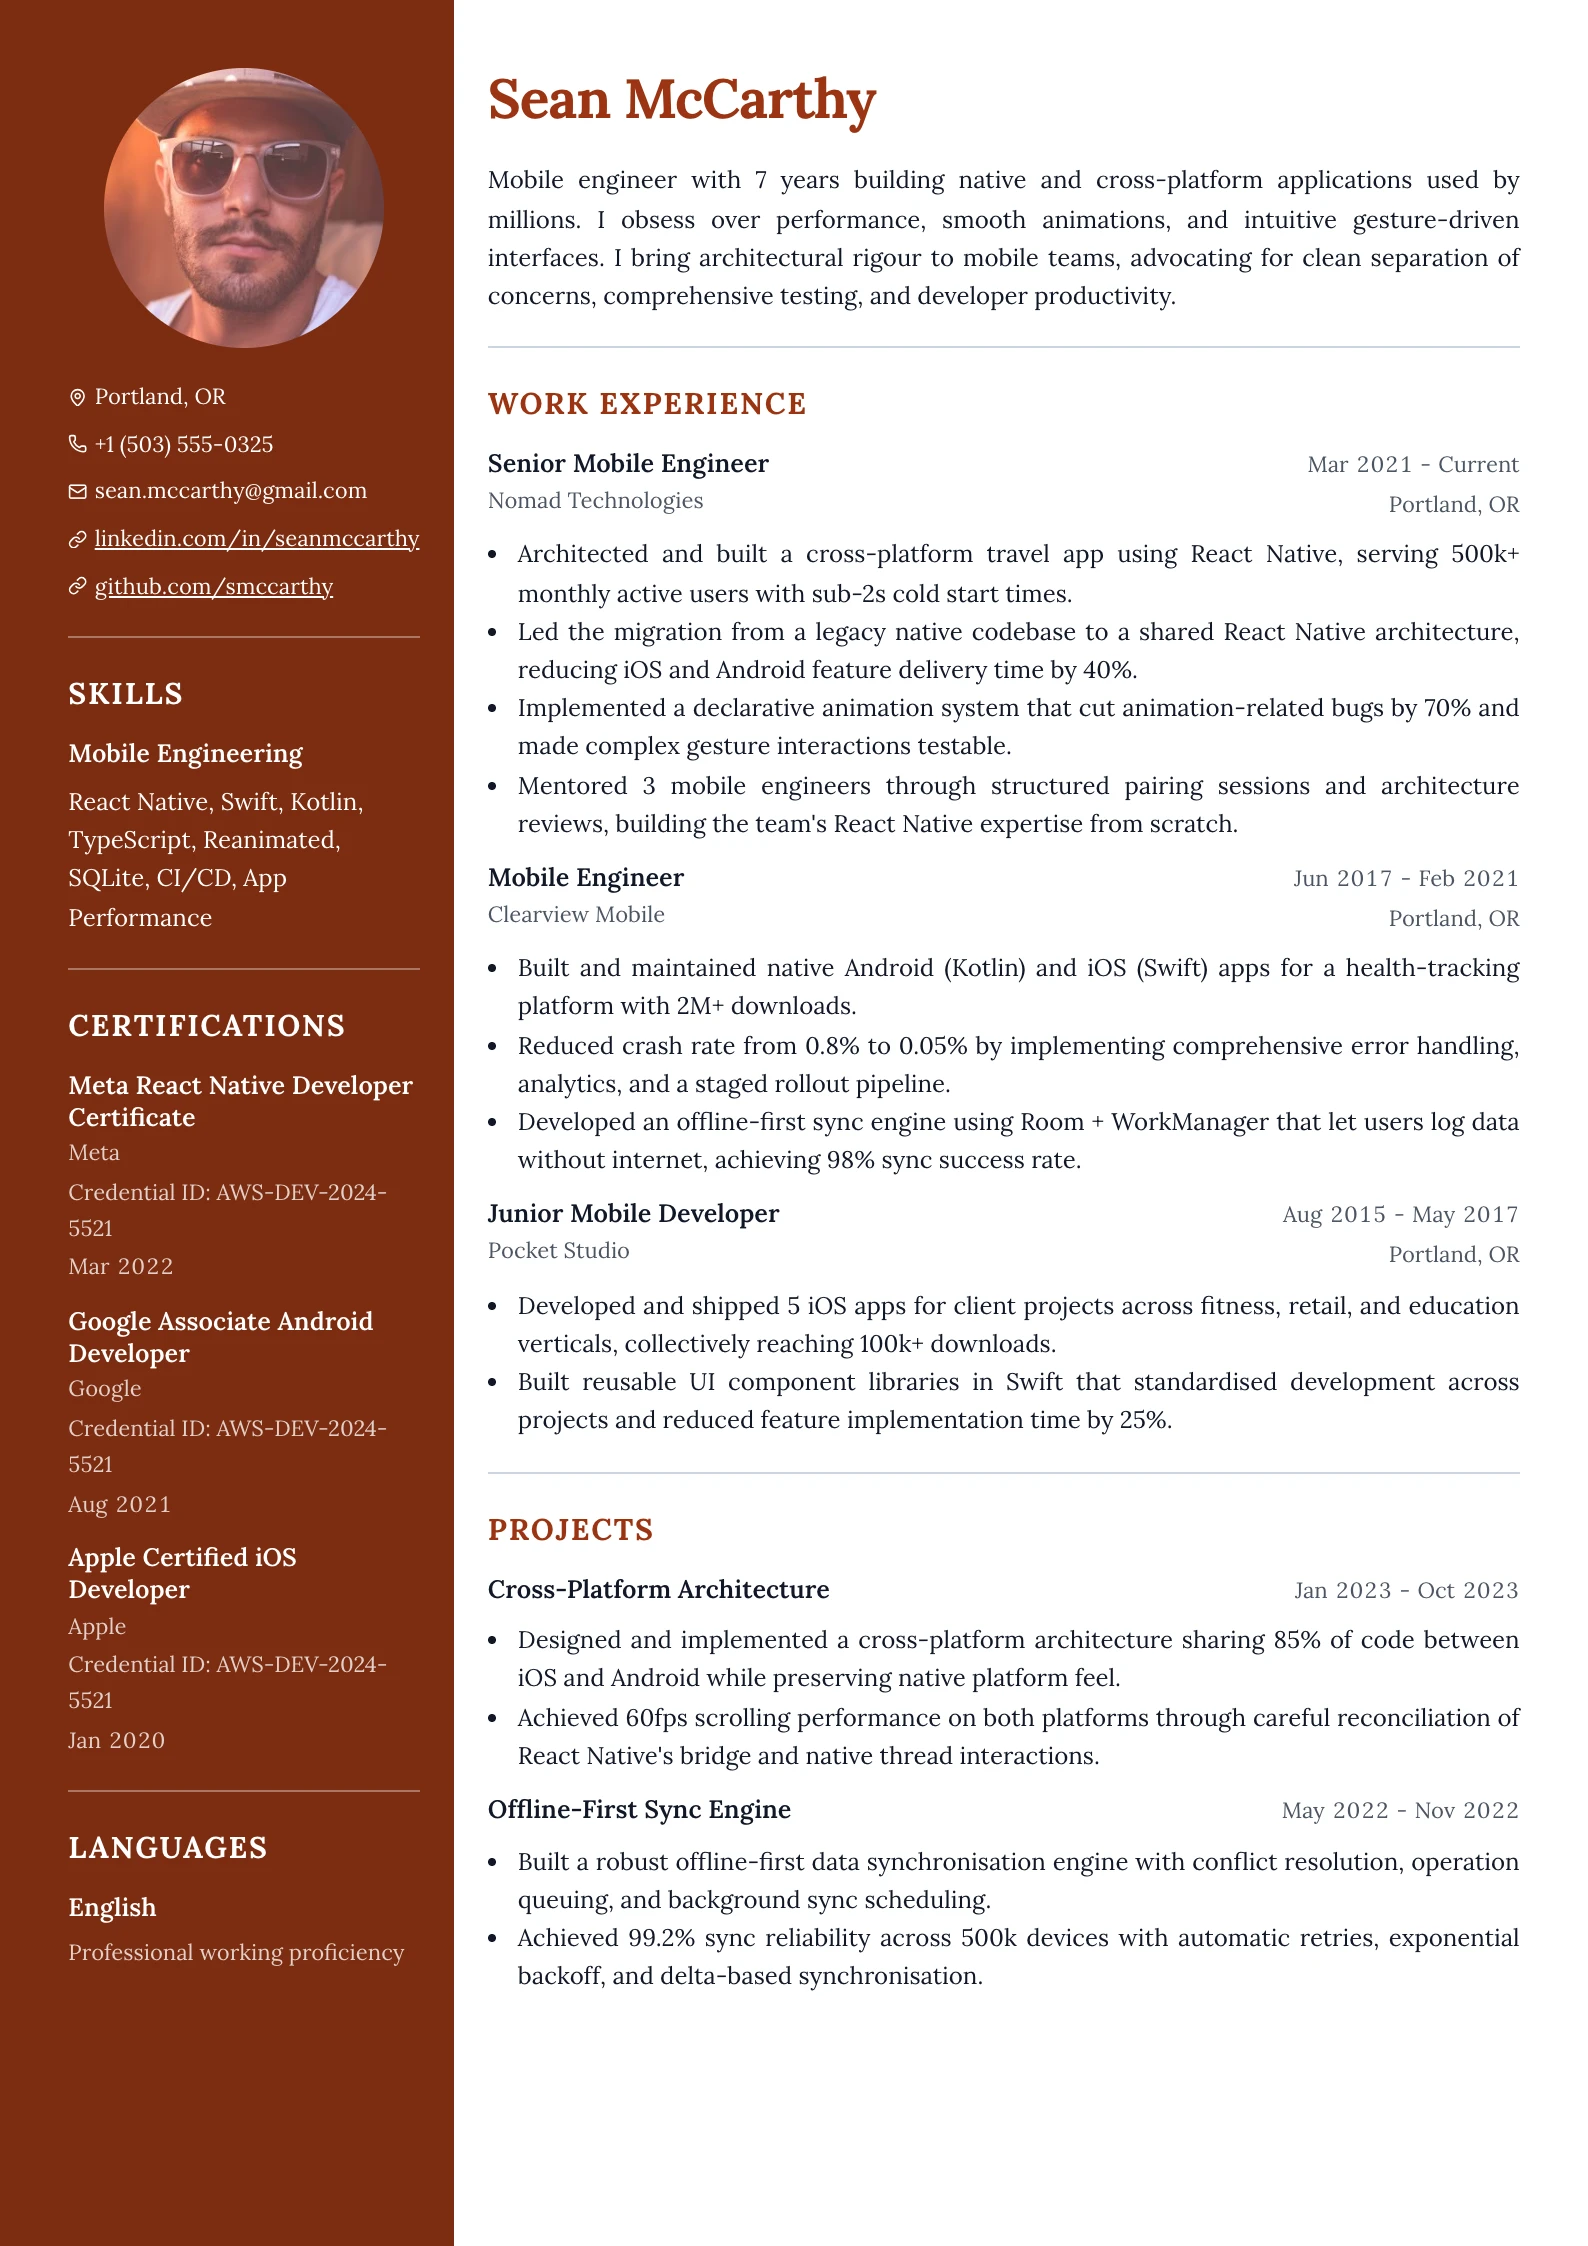
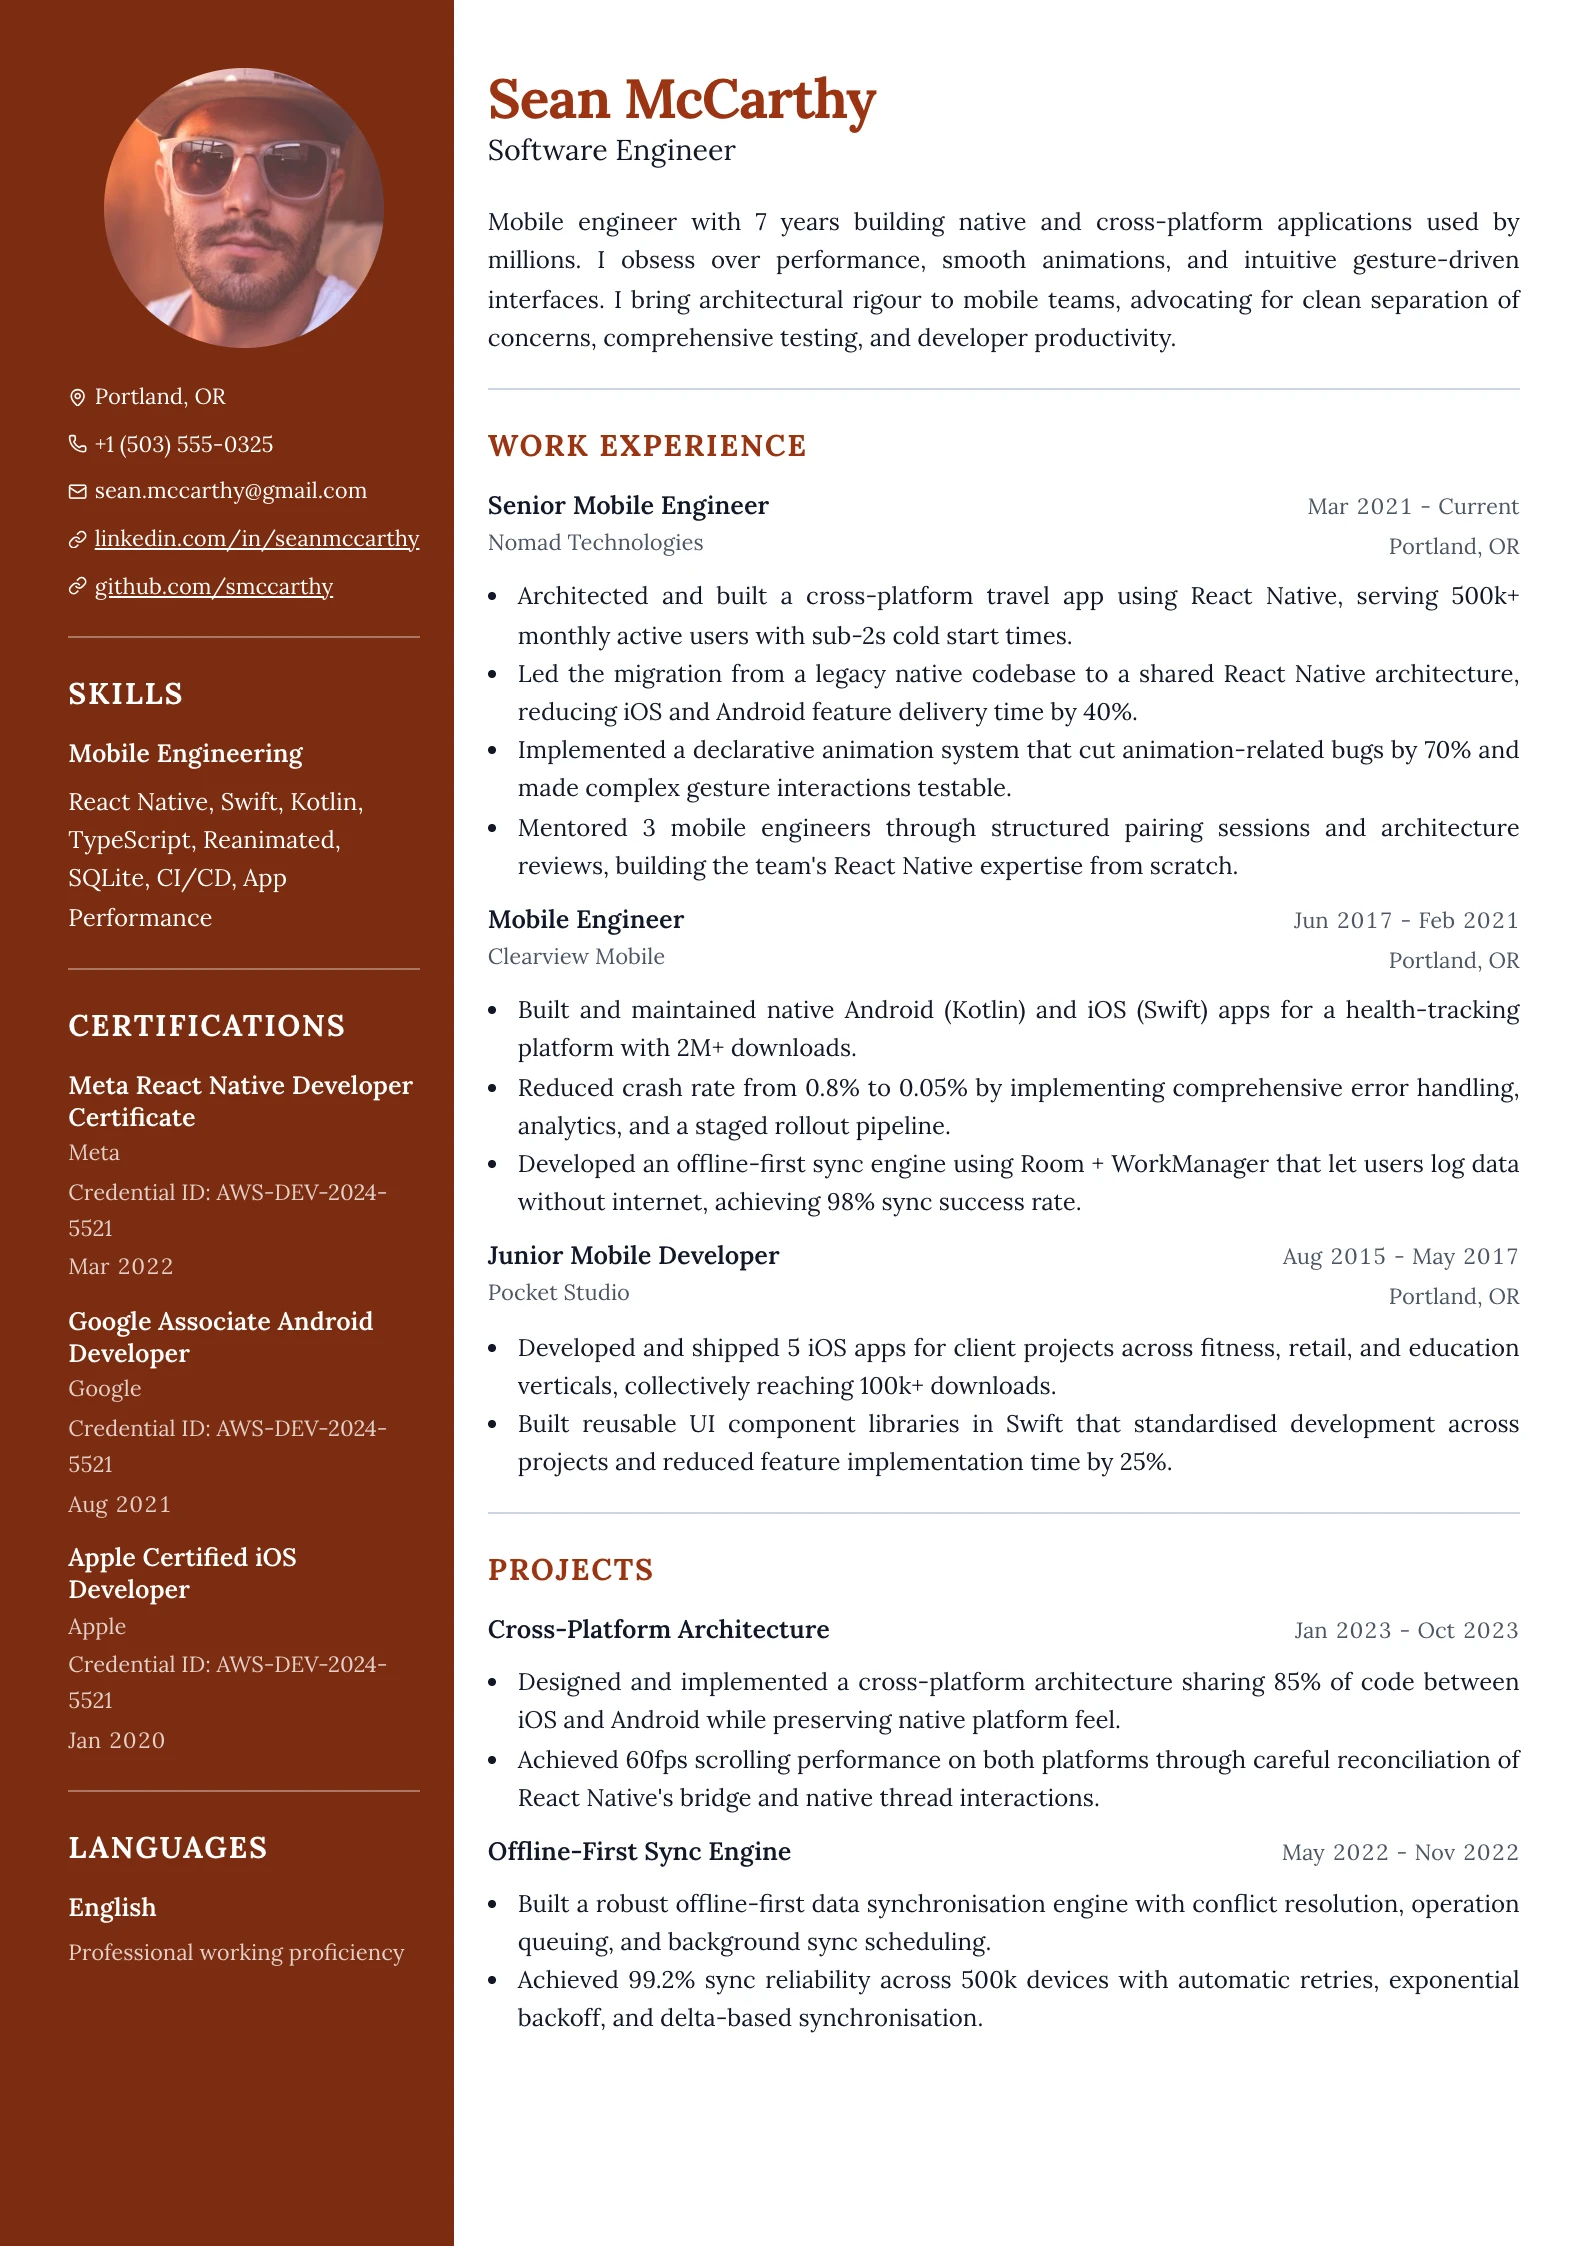
Fix the job title's weight, and the header it landed in
The title is no longer set lighter than the body it introduces — it takes
the surrounding text colour at full strength, on paper and on a band alike.
A subtitle in grey above black body copy reads as an afterthought.

Adding a line also grew every identity block, which left the photos beside
them looking undersized: timeline was 72px against a 99px block, bold-type
72 against 108. Photos are measured against their block now, and aurora's
comes down since it had overshot the other way. Studio and Aurora move the
contact line to the full gap step, so the title is not crowded by it.

Claude-Session: https://claude.ai/code/session_01Ed9buKNu3JzvuqejkFDkpc

Changed region(s): [[0.3086, 0.0623, 0.9565, 0.9038]]

diff --git a/src/features/resume-editor/preview/resume-document.module.css b/src/features/resume-editor/preview/resume-document.module.css
@@ -68,17 +68,15 @@
 
 /* Sized off the NAME, not the body ramp: it is the second line of the identity
    block, and a headline pegged to --resume-h3 reads as a caption next to a name
-   three times its size. Colour is derived from currentColor so it stays legible
-   on a coloured band, where a fixed grey turns to mud. Each layout tunes both —
-   see the per-layout modules. */
+   three times its size. It inherits the surrounding text colour at full strength:
+   a title set lighter than the body it introduces reads as an afterthought, and
+   on a coloured band a softened grey turns to mud. Each layout tunes it — see
+   the per-layout modules. */
 :where(.root) :global(.headline) {
   font-size: calc(var(--resume-h1) * 0.52);
   font-weight: 500;
   line-height: 1.25;
-  color: var(
-    --resume-headline-color,
-    color-mix(in srgb, currentColor 85%, transparent)
-  );
+  color: var(--resume-headline-color, currentColor);
   margin: 0;
 }
 

diff --git a/src/features/resume-editor/preview/layouts/aurora/styles.module.css b/src/features/resume-editor/preview/layouts/aurora/styles.module.css
@@ -137,7 +137,9 @@
   min-width: 0;
   display: flex;
   flex-direction: column;
-  gap: var(--resume-gap-inner);
+  /* Name+title pair tightly inside .name-block; the contacts below them are a
+     separate thing and need the full step, not the inner gap. */
+  gap: var(--resume-gap-item);
 }
 
 /* The band is pale by design, so the name takes the text colour — the accent
@@ -152,7 +154,7 @@
 }
 
 .header :global(.header-photo) {
-  width: 108px;
+  width: 92px;
   aspect-ratio: var(--resume-photo-aspect, 3 / 4);
   height: auto;
   border-radius: var(--resume-photo-radius, 12px);
@@ -207,9 +209,5 @@
 .header :global(.headline) {
   font-size: calc(var(--resume-h1) * 0.6);
   font-weight: 400;
-  --resume-headline-color: color-mix(
-    in srgb,
-    var(--resume-text) 72%,
-    transparent
-  );
+  --resume-headline-color: var(--resume-text);
 }

diff --git a/src/features/resume-editor/preview/layouts/studio/styles.module.css b/src/features/resume-editor/preview/layouts/studio/styles.module.css
@@ -99,7 +99,9 @@
   min-width: 0;
   display: flex;
   flex-direction: column;
-  gap: var(--resume-gap-inner);
+  /* Name+title pair tightly inside .name-block; the contacts below them are a
+     separate thing and need the full step, not the inner gap. */
+  gap: var(--resume-gap-item);
 }
 
 .header :global(.name) {
@@ -109,7 +111,7 @@
 }
 
 .header :global(.header-photo) {
-  width: 84px;
+  width: 96px;
   aspect-ratio: var(--resume-photo-aspect, 1 / 1);
   height: auto;
   border-radius: var(--resume-photo-radius, 14px);

diff --git a/src/features/resume-editor/preview/layouts/bold-type/styles.module.css b/src/features/resume-editor/preview/layouts/bold-type/styles.module.css
@@ -95,7 +95,7 @@
 
 /* Sharp-cornered square photo matches the editorial look. */
 .header :global(.header-photo) {
-  width: 72px;
+  width: 100px;
   aspect-ratio: var(--resume-photo-aspect, 1 / 1);
   height: auto;
   border-radius: var(--resume-photo-radius, 0);
@@ -120,9 +120,5 @@
   text-transform: uppercase;
   letter-spacing: 0.1em;
   font-weight: 700;
-  --resume-headline-color: color-mix(
-    in srgb,
-    var(--resume-text) 80%,
-    transparent
-  );
+  --resume-headline-color: var(--resume-text);
 }

diff --git a/src/features/resume-editor/preview/layouts/banner/styles.module.css b/src/features/resume-editor/preview/layouts/banner/styles.module.css
@@ -45,7 +45,7 @@
 }
 
 .header :global(.header-photo) {
-  width: 84px;
+  width: 96px;
   aspect-ratio: var(--resume-photo-aspect, 1 / 1);
   height: auto;
   border-radius: var(--resume-photo-radius, 50%);
@@ -61,10 +61,6 @@
 
 /* Inside the band: on-accent, never the muted grey used on paper. */
 .header :global(.headline) {
-  --resume-headline-color: color-mix(
-    in srgb,
-    var(--resume-on-accent) 90%,
-    transparent
-  );
+  --resume-headline-color: var(--resume-on-accent);
   font-weight: 400;
 }

diff --git a/src/features/resume-editor/preview/layouts/academic/styles.module.css b/src/features/resume-editor/preview/layouts/academic/styles.module.css
@@ -70,7 +70,7 @@
 }
 
 .header :global(.header-photo) {
-  width: 56px;
+  width: 68px;
   aspect-ratio: var(--resume-photo-aspect, 56 / 72);
   height: auto;
   border-radius: var(--resume-photo-radius, 6px);
@@ -98,9 +98,5 @@
 .header :global(.headline) {
   font-style: italic;
   font-weight: 400;
-  --resume-headline-color: color-mix(
-    in srgb,
-    var(--resume-text) 88%,
-    transparent
-  );
+  --resume-headline-color: var(--resume-text);
 }

diff --git a/src/features/resume-editor/preview/layouts/sidebar/styles.module.css b/src/features/resume-editor/preview/layouts/sidebar/styles.module.css
@@ -120,10 +120,6 @@
 
 /* On the accent band, so it reads in on-accent like the name above it. */
 .header :global(.headline) {
-  --resume-headline-color: color-mix(
-    in srgb,
-    var(--resume-on-accent) 88%,
-    transparent
-  );
+  --resume-headline-color: var(--resume-on-accent);
   font-weight: 400;
 }

diff --git a/src/features/resume-editor/preview/layouts/spotlight/styles.module.css b/src/features/resume-editor/preview/layouts/spotlight/styles.module.css
@@ -123,9 +123,5 @@
   text-transform: uppercase;
   letter-spacing: 0.08em;
   font-weight: 600;
-  --resume-headline-color: color-mix(
-    in srgb,
-    var(--resume-on-secondary) 88%,
-    transparent
-  );
+  --resume-headline-color: var(--resume-on-secondary);
 }

diff --git a/src/features/resume-editor/preview/layouts/modern-centered/styles.module.css b/src/features/resume-editor/preview/layouts/modern-centered/styles.module.css
@@ -119,9 +119,5 @@
   text-transform: uppercase;
   letter-spacing: 0.1em;
   font-weight: 600;
-  --resume-headline-color: color-mix(
-    in srgb,
-    var(--resume-text) 78%,
-    transparent
-  );
+  --resume-headline-color: var(--resume-text);
 }

diff --git a/src/features/resume-editor/preview/layouts/inset/styles.module.css b/src/features/resume-editor/preview/layouts/inset/styles.module.css
@@ -99,9 +99,5 @@
   text-transform: uppercase;
   letter-spacing: 0.08em;
   font-weight: 600;
-  --resume-headline-color: color-mix(
-    in srgb,
-    var(--resume-text) 75%,
-    transparent
-  );
+  --resume-headline-color: var(--resume-text);
 }

diff --git a/src/features/resume-editor/preview/layouts/timeline/styles.module.css b/src/features/resume-editor/preview/layouts/timeline/styles.module.css
@@ -76,7 +76,7 @@
 }
 
 .header :global(.header-photo) {
-  width: 56px;
+  width: 76px;
   aspect-ratio: var(--resume-photo-aspect, 56 / 72);
   height: auto;
   border-radius: var(--resume-photo-radius, 6px);
